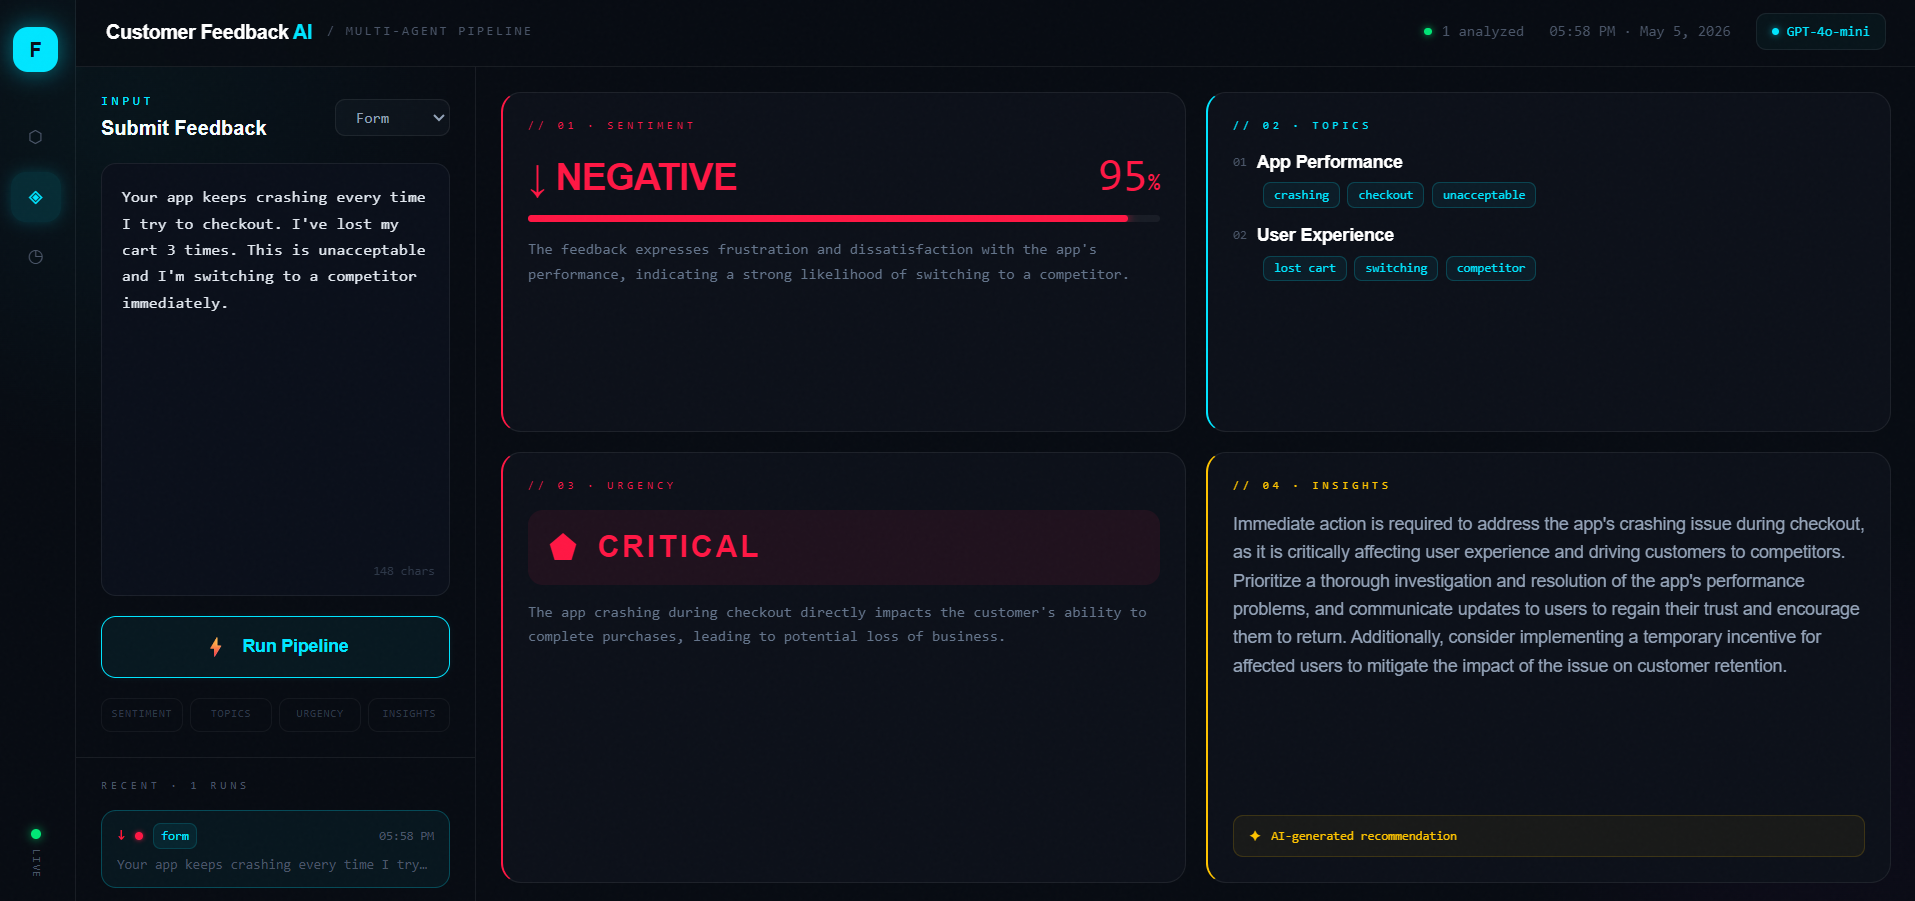
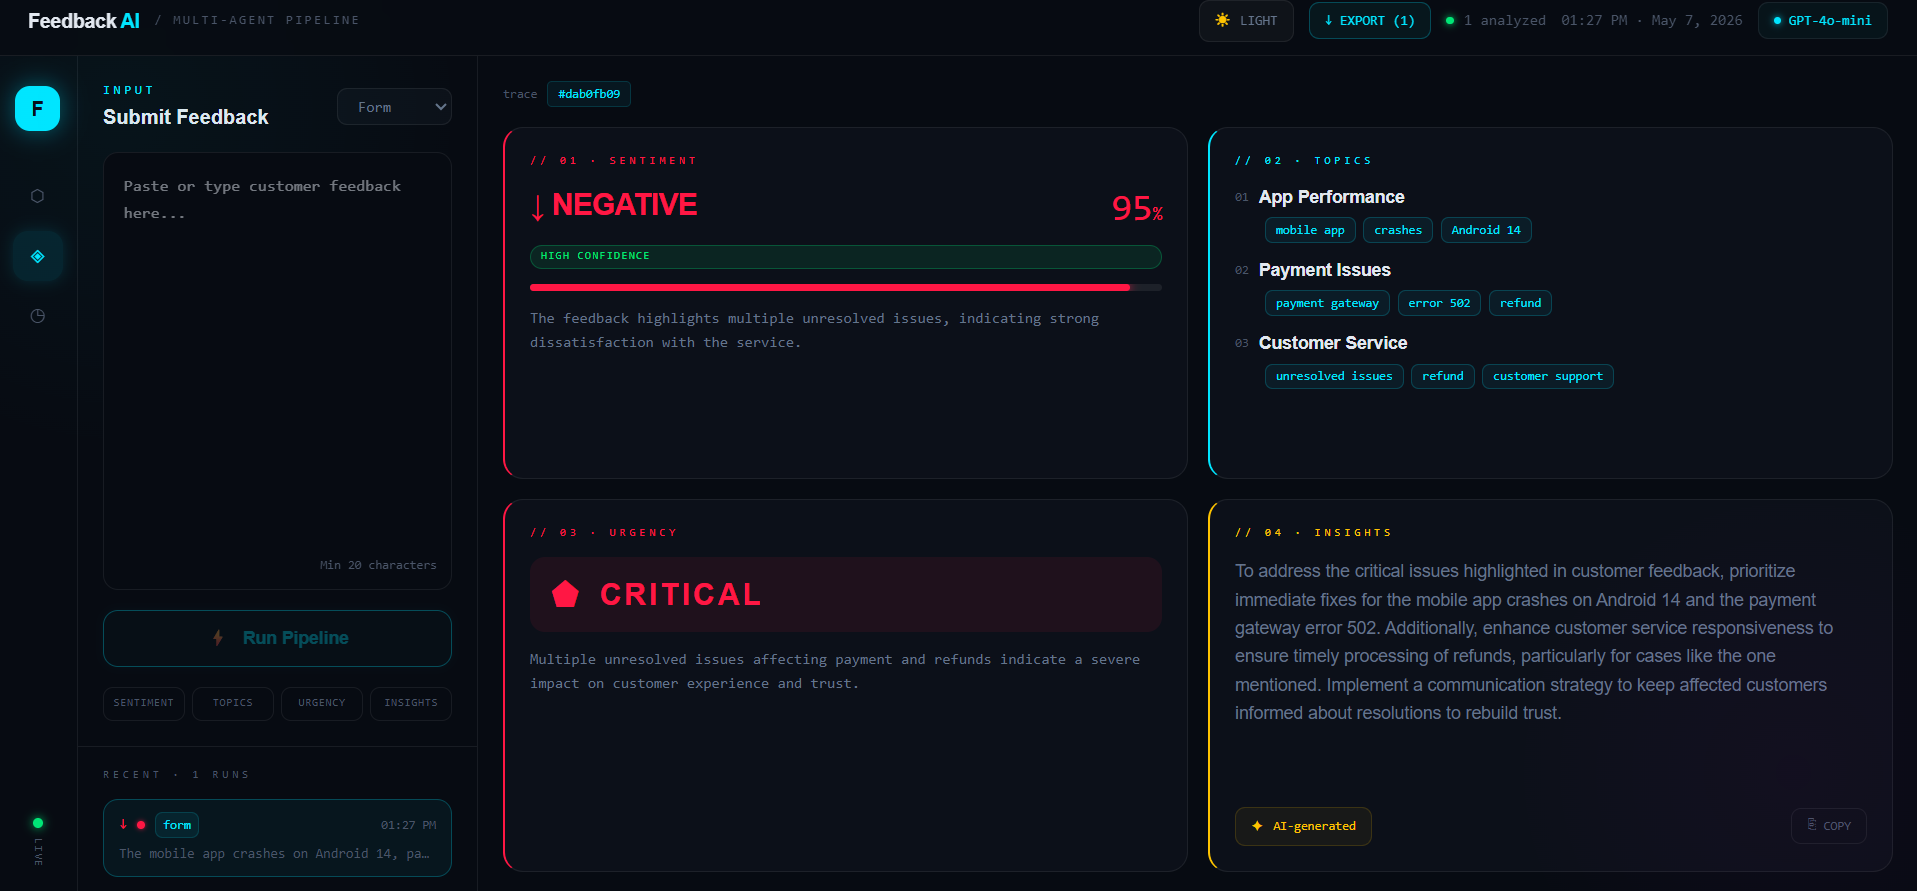
Update readme.md

diff --git a/README.md b/README.md
@@ -2,19 +2,31 @@
 
 An AI agent system to analyze customer reviews, extract key themes, and prioritize product issues — built with **FastAPI** (backend) and **React + Vite + Tailwind CSS** (frontend).
 
+![Version](https://img.shields.io/badge/Version-2.0.0-00e5ff?style=flat-square)
 ![Pipeline](https://img.shields.io/badge/Pipeline-4%20Agents-00e5ff?style=flat-square)
 ![FastAPI](https://img.shields.io/badge/FastAPI-0.111-009688?style=flat-square&logo=fastapi)
 ![React](https://img.shields.io/badge/React-18-61DAFB?style=flat-square&logo=react)
 ![TailwindCSS](https://img.shields.io/badge/Tailwind-v4-38BDF8?style=flat-square&logo=tailwindcss)
 ![OpenAI](https://img.shields.io/badge/OpenAI-GPT--4o--mini-412991?style=flat-square&logo=openai)
+![License](https://img.shields.io/badge/License-MIT-green?style=flat-square)
 
 ---
 
 ## 🖼️ Preview
 
+* Dashboard
+
 ![Dashboard Preview](/images/Dashboard.png)
 
+![Light mode](/images/Lightmode.png)
+
+* Responsive design
+
+![Responsive Design](/images/Responsive.png)
+
 ---
+
+* Feedback analysis results
 
 ![Feedback Analysis](/images/Feedback.png)
 
@@ -28,7 +40,7 @@ Download the Amazon Product Reviews dataset from Kaggle:
 
 After downloading, place and unzip the file in the `data/` folder:
 
-```code
+```CODE
 customer-feedback-ai/
 └── backend/
     └── data/
@@ -44,7 +56,7 @@ Customer Feedback (text)
          │
          ▼
 ┌─────────────────┐
-│ Sentiment Agent │ → positive / negative / neutral + confidence %
+│ Sentiment Agent │ → positive / negative / neutral / uncertain + confidence %
 └────────┬────────┘
          │
          ▼
@@ -77,10 +89,11 @@ customer-feedback-ai/
 │   │   │   ├── urgency.py        # Urgency Classifier Agent
 │   │   │   └── insights.py       # Insight Generator Agent
 │   │   ├── models/
-│   │   │   └── schemas.py        # Pydantic request/response schemas
+│   │   │   └── schemas.py        # Pydantic schemas + batch models
 │   │   ├── utils/
-│   │   │   └── llm.py            # OpenAI async wrapper
-│   │   └── main.py               # FastAPI app + /analyze endpoint
+│   │   │   ├── llm.py            # OpenAI async wrapper
+│   │   │   └── cache.py          # In-memory LRU cache
+│   │   └── main.py               # FastAPI app + all endpoints
 │   ├── data/
 │   │   ├── Reviews.csv           # Amazon dataset (download from Kaggle)
 │   │   └── sample_feedback.json  # Sample feedback entries
@@ -94,21 +107,57 @@ customer-feedback-ai/
 └── frontend/
     ├── src/
     │   ├── api/
-    │   │   └── feedback.js       # Fetch call to FastAPI
+    │   │   └── feedback.js         # Fetch call to FastAPI
     │   ├── components/
-    │   │   ├── Sidebar.jsx       # Icon navigation
-    │   │   ├── Header.jsx        # Top bar with model badge
-    │   │   ├── FeedbackForm.jsx  # Input + source selector
-    │   │   ├── ResultPanel.jsx   # 2x2 result cards
-    │   │   ├── HistoryPanel.jsx  # Past analyses list
-    │   │   └── EmptyState.jsx    # Animated placeholder
-    │   ├── App.jsx               # Split dashboard layout
-    │   ├── index.css             # Tailwind v4 + custom theme
+    │   │   ├── Sidebar.jsx          # Icon navigation
+    │   │   ├── Header.jsx           # Top bar + export + theme toggle
+    │   │   ├── FeedbackForm.jsx     # Input + char limit + source selector
+    │   │   ├── ResultPanel.jsx      # 2x2 result cards + confidence badge
+    │   │   ├── HistoryPanel.jsx     # Past analyses list
+    │   │   ├── EmptyState.jsx       # Animated placeholder
+    │   │   ├── ExportButton.jsx     # JSON / CSV export dropdown
+    │   │   └── ThemeToggle.jsx      # Dark / Light mode toggle
+    │   ├── context/
+    │   │   └── ThemeContext.jsx     # Global theme state + localStorage
+    │   ├── utils/
+    │   │   └── export.js            # Export logic (JSON + CSV)
+    │   ├── App.jsx                  # Split dashboard layout
+    │   ├── index.css                # Tailwind v4 + dark/light CSS vars
     │   └── main.jsx
     ├── index.html
-    ├── vite.config.js            # Proxy + @tailwindcss/vite
+    ├── vite.config.js               # Proxy + @tailwindcss/vite
     └── package.json
 ```
+
+---
+
+## ✨ Features
+
+### Backend
+
+| Feature | Description |
+| --- | --- |
+| 4-Agent Pipeline | Sentiment → Topics → Urgency → Insights chained agents |
+| Rate Limiting | 10 req/min per IP on `/analyze`, 3/min on `/analyze/batch` |
+| Trace ID | Unique ID per request for end-to-end log correlation |
+| Confidence Guard | Score < 0.4 → returns `uncertain` instead of wrong label |
+| Startup Validation | Server fails fast if `OPENAI_API_KEY` is missing |
+| Batch Endpoint | `POST /analyze/batch` — up to 20 feedbacks concurrently |
+| LRU Cache | Same feedback → cached result, no extra OpenAI API call |
+| Health Endpoint | `GET /health` — status, uptime, model, cache stats |
+
+### Frontend
+
+| Feature | Description |
+| --- | --- |
+| Split Dashboard | Sidebar + left input panel + right results panel |
+| Confidence Badge | `HIGH / MED / LOW CONFIDENCE` tag on sentiment card |
+| Export History | Download full analysis history as JSON or CSV |
+| Dark / Light Mode | Toggle with localStorage persistence |
+| Character Limit | Warn if feedback < 20 or > 2000 characters |
+| Copy to Clipboard | Copy insights text with one click |
+| Cached Indicator | `⚡ CACHED` badge when result served from cache |
+| Responsive Design | Works on mobile, tablet, and desktop |
 
 ---
 
@@ -116,9 +165,9 @@ customer-feedback-ai/
 
 ### Prerequisites
 
-- Python 3.11+
-- Node.js 18+
-- OpenAI API key
+* Python 3.11+
+* Node.js 18+
+* OpenAI API key
 
 ---
 
@@ -181,11 +230,15 @@ pytest .\tests\ -v
 
 Tests cover:
 
-- `test_sentiment_analysis` — label + score validation
-- `test_topic_clustering` — topic + keyword structure
-- `test_urgency_classification` — urgency level check
-- `test_insight_generation` — non-empty string output
-- `test_full_pipeline` — end-to-end chain
+* `test_sentiment_analysis` — label + score validation
+* `test_sentiment_uncertain_fallback` — confidence guard check
+* `test_topic_clustering` — topic + keyword structure
+* `test_urgency_classification` — urgency level check
+* `test_insight_generation` — non-empty string output
+* `test_full_pipeline` — end-to-end chain
+* `test_analyze_endpoint_returns_trace_id` — trace ID on response
+* `test_health_endpoint` — uptime + status check
+* `test_empty_feedback_rejected` — 422 on empty input
 
 ---
 
@@ -207,6 +260,7 @@ Tests cover:
 
 ```json
 {
+  "trace_id": "a1b2c3d4",
   "feedback": "...",
   "sentiment": {
     "label": "negative",
@@ -223,9 +277,46 @@ Tests cover:
     "level": "critical",
     "reason": "..."
   },
-  "insights": "Immediate action required..."
+  "insights": "Immediate action required...",
+  "cached": false
 }
 ```
+
+---
+
+### `POST /analyze/batch`
+
+```json
+{
+  "feedbacks": ["text1", "text2", "text3"],
+  "source": "csv"
+}
+```
+
+Max 20 feedbacks per request. Runs concurrently. Cached entries return instantly.
+
+---
+
+### `GET /health`
+
+```json
+{
+  "status": "ok",
+  "version": "2.1.0",
+  "model": "gpt-4o-mini",
+  "uptime_seconds": 3600,
+  "cache": {
+    "size": 12,
+    "hits": 34,
+    "misses": 10,
+    "hit_rate_pct": 77.3
+  }
+}
+```
+
+### `GET /cache/stats`
+
+Returns cache performance metrics — size, hits, misses, hit rate %.
 
 ### `GET /`
 
@@ -238,8 +329,9 @@ Health check — returns `{ "message": "Customer Feedback AI is running 🚀" }`
 | Panel | Description |
 | --- | --- |
 | **Sidebar** | Icon nav — Dashboard, Analyze, History |
-| **Left panel** | Feedback input, source selector, history |
+| **Left panel** | Feedback input, char limit, source selector, history |
 | **Right panel** | 4 result cards — Sentiment, Topics, Urgency, Insights |
+| **Header** | Export button, theme toggle, model badge, analyzed count |
 
 ---
 
@@ -261,17 +353,18 @@ from openai import AsyncOpenAI
 
 | Layer | Technology |
 | --- | --- |
-| Backend | FastAPI, Uvicorn, Pydantic v2 |
-| AI | OpenAI GPT-4o-mini, async agents |
+| Backend | FastAPI, Uvicorn, Pydantic v2, slowapi |
+| AI | OpenAI GPT-4o-mini, async multi-agent pipeline |
+| Caching | In-memory LRU cache (200 entries) |
 | Frontend | React 18, Vite, Tailwind CSS v4 |
-| Testing | pytest, pytest-asyncio |
+| Testing | pytest, pytest-asyncio, httpx |
 | Dev Tools | python-dotenv, CORS middleware |
 
 ---
 
 ## 📄 License
 
-([MIT License](LICENSE))  — feel free to use, modify, and distribute.
+[MIT License](LICENSE) — feel free to use, modify, and distribute.
 
 ---
 